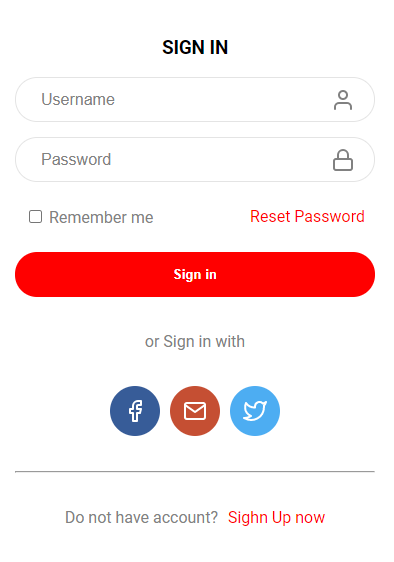
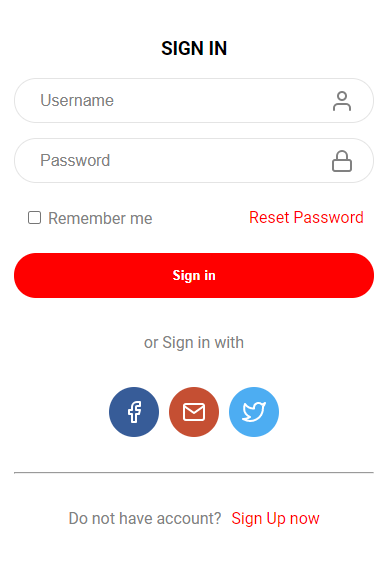
Edit text Sign Up now and edit img README.md

diff --git a/index.html b/index.html
@@ -55,7 +55,7 @@
       <hr>
       <div class="register-container">
         <p>Do not have account?</p>
-        <a href="#">Sighn Up now</a>
+        <a href="#">Sign Up now</a>
       </div>
     </form>
   </div>
